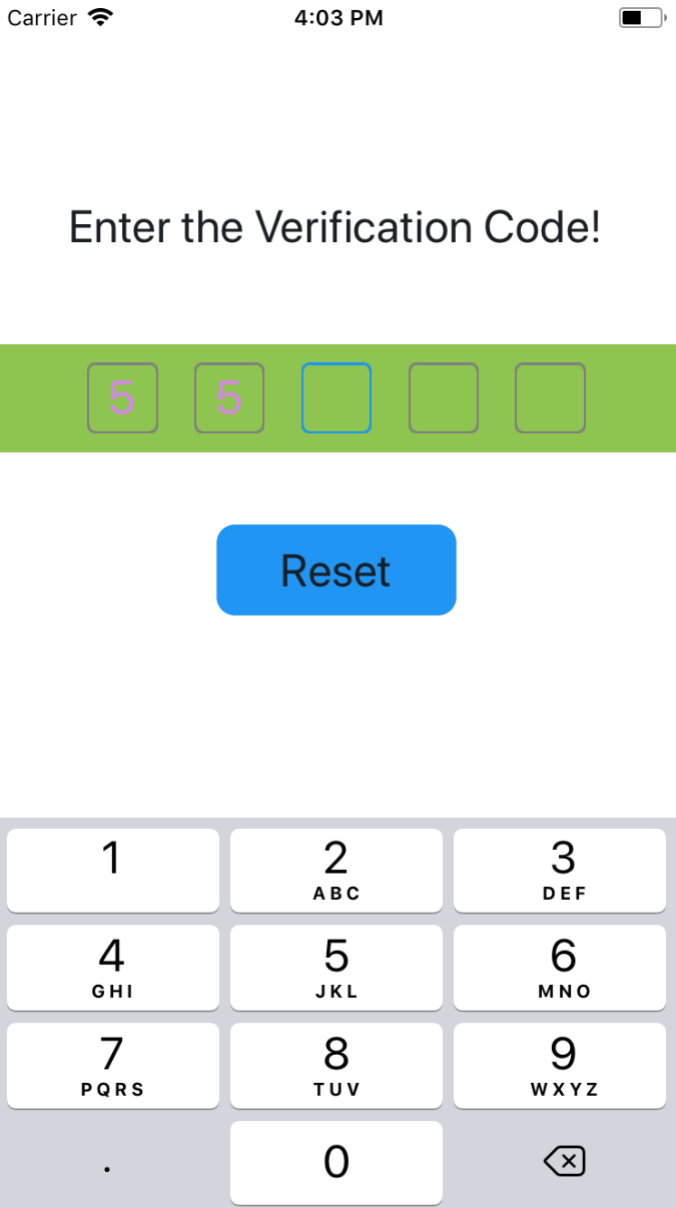
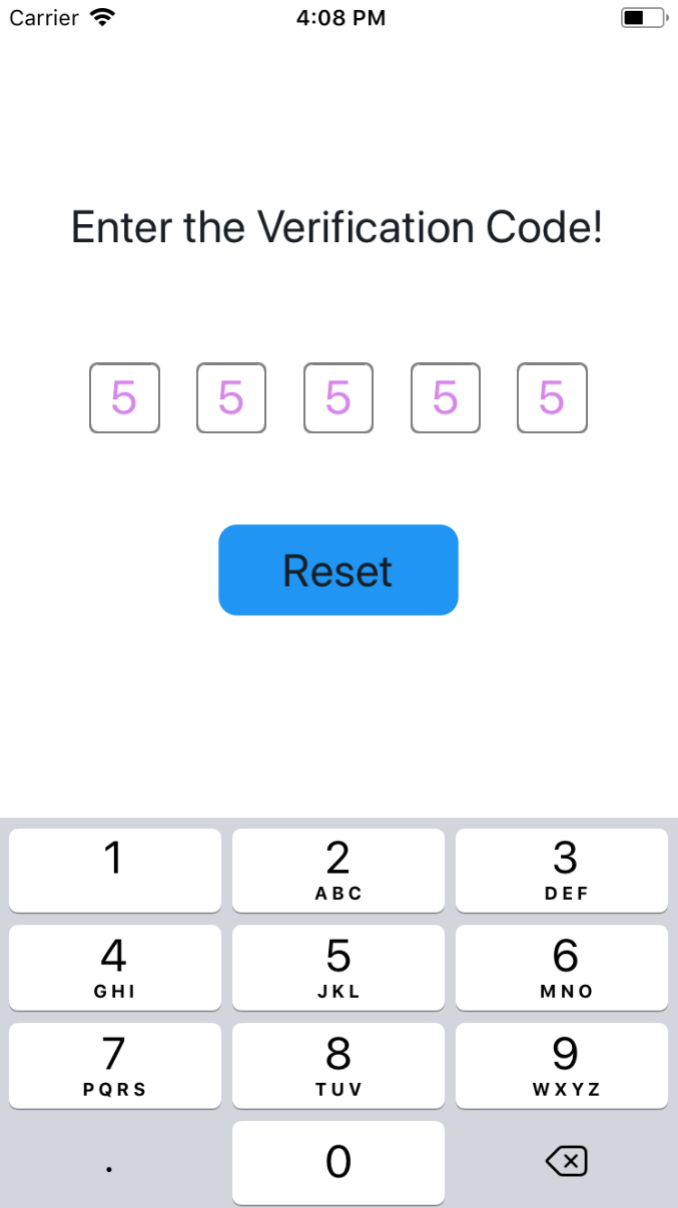
add  pic

diff --git a/README.md b/README.md
@@ -45,8 +45,8 @@ reset = () => {
 ...        
 ```
 
-|![android](https://github.com/shixiaoquan/react-native-sms-verifycode/blob/master/screencaptures/normal-android.png)|![iOS](https://github.com/shixiaoquan/react-native-sms-verifycode/blob/master/screencaptures/normal-ios.png)|
-|:-:|:-:|
+|![android](https://github.com/shixiaoquan/react-native-sms-verifycode/blob/master/screencaptures/normal-android.png)|![iOS](https://github.com/shixiaoquan/react-native-sms-verifycode/blob/master/screencaptures/normal-ios.png)|![iOS](https://github.com/shixiaoquan/react-native-sms-verifycode/blob/master/screencaptures/normal-all.png)|
+|:-:|:-:|:-:|
 
 ### Advanced Usage
 
